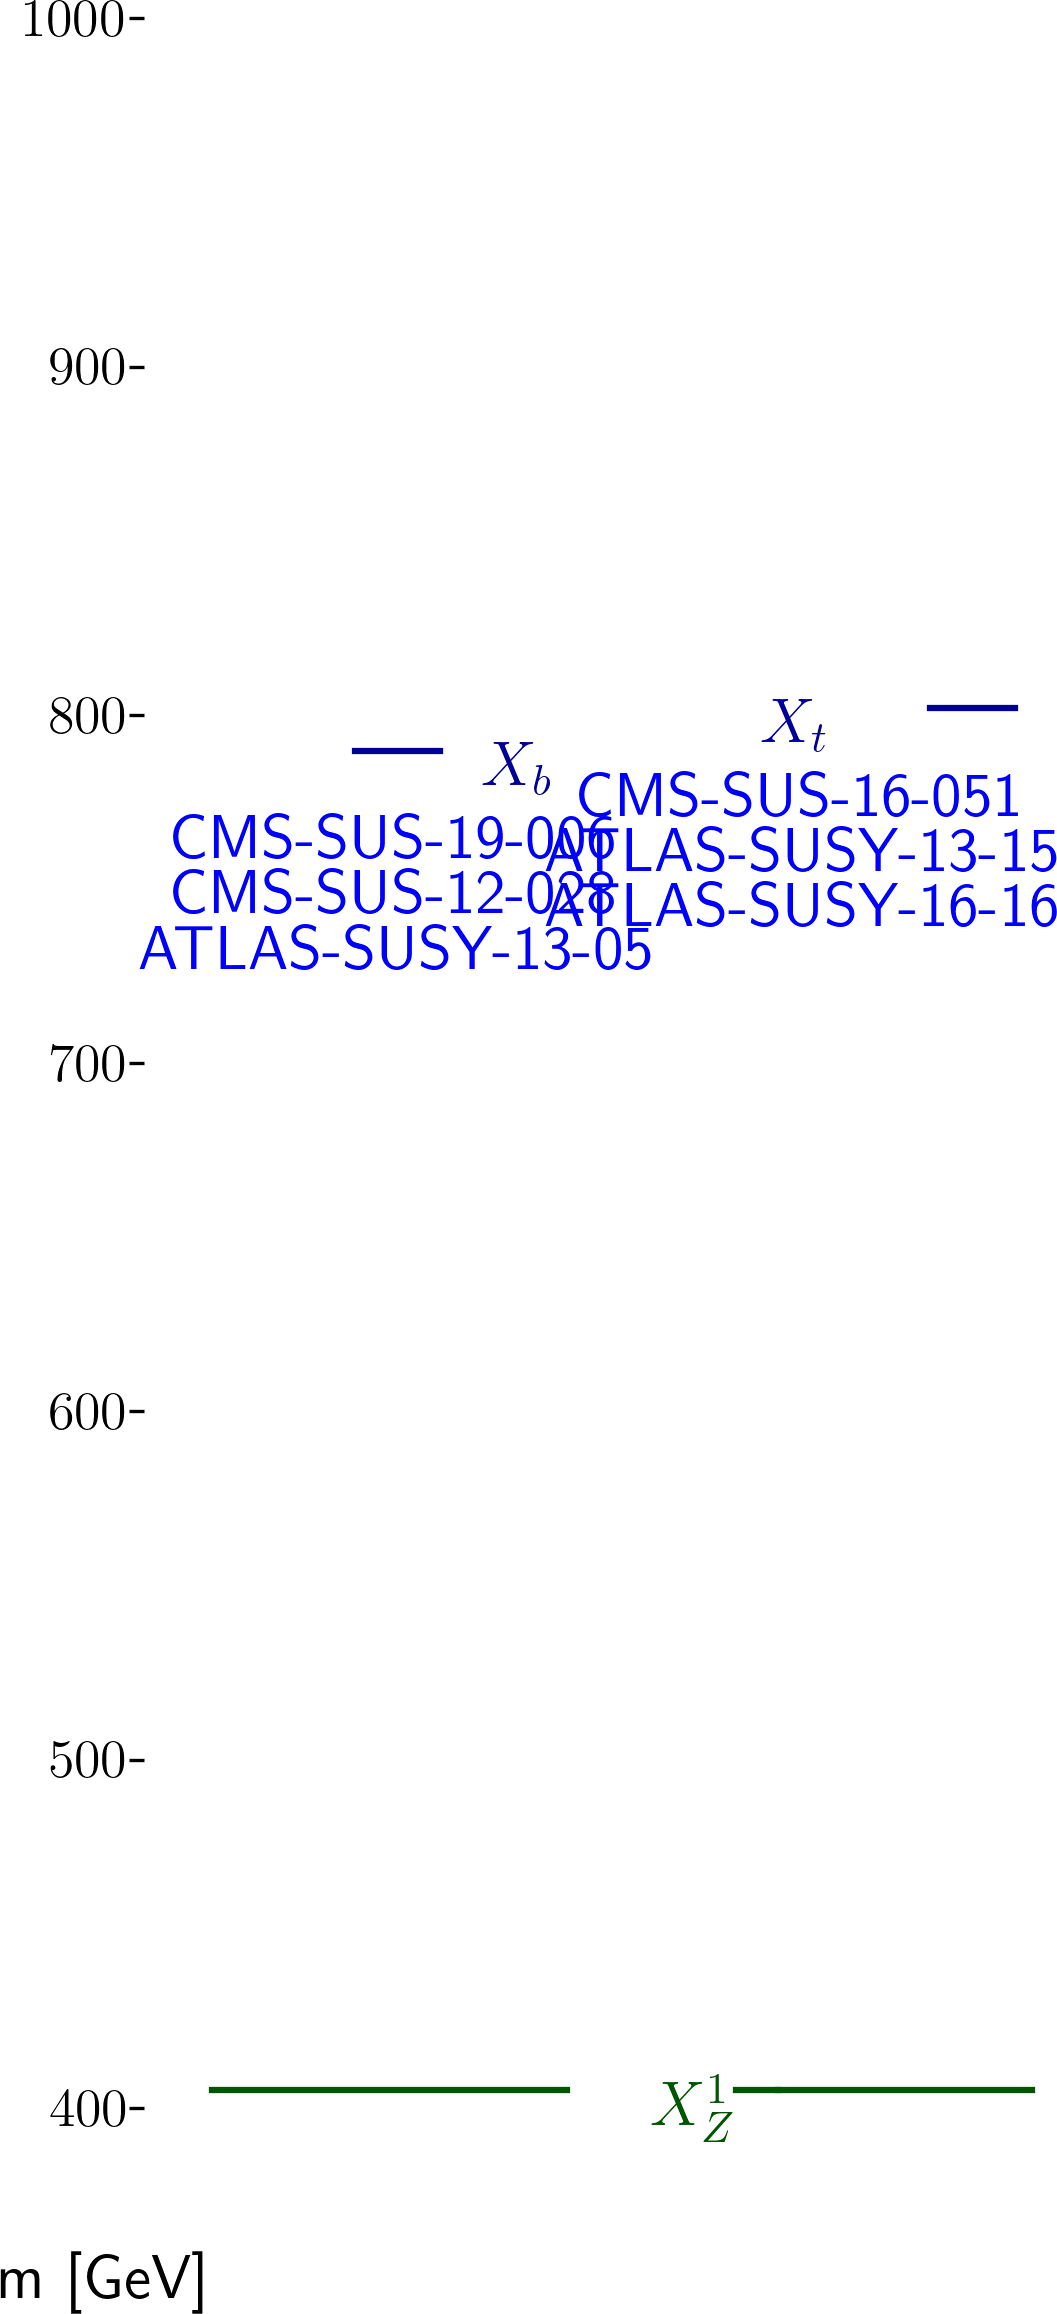
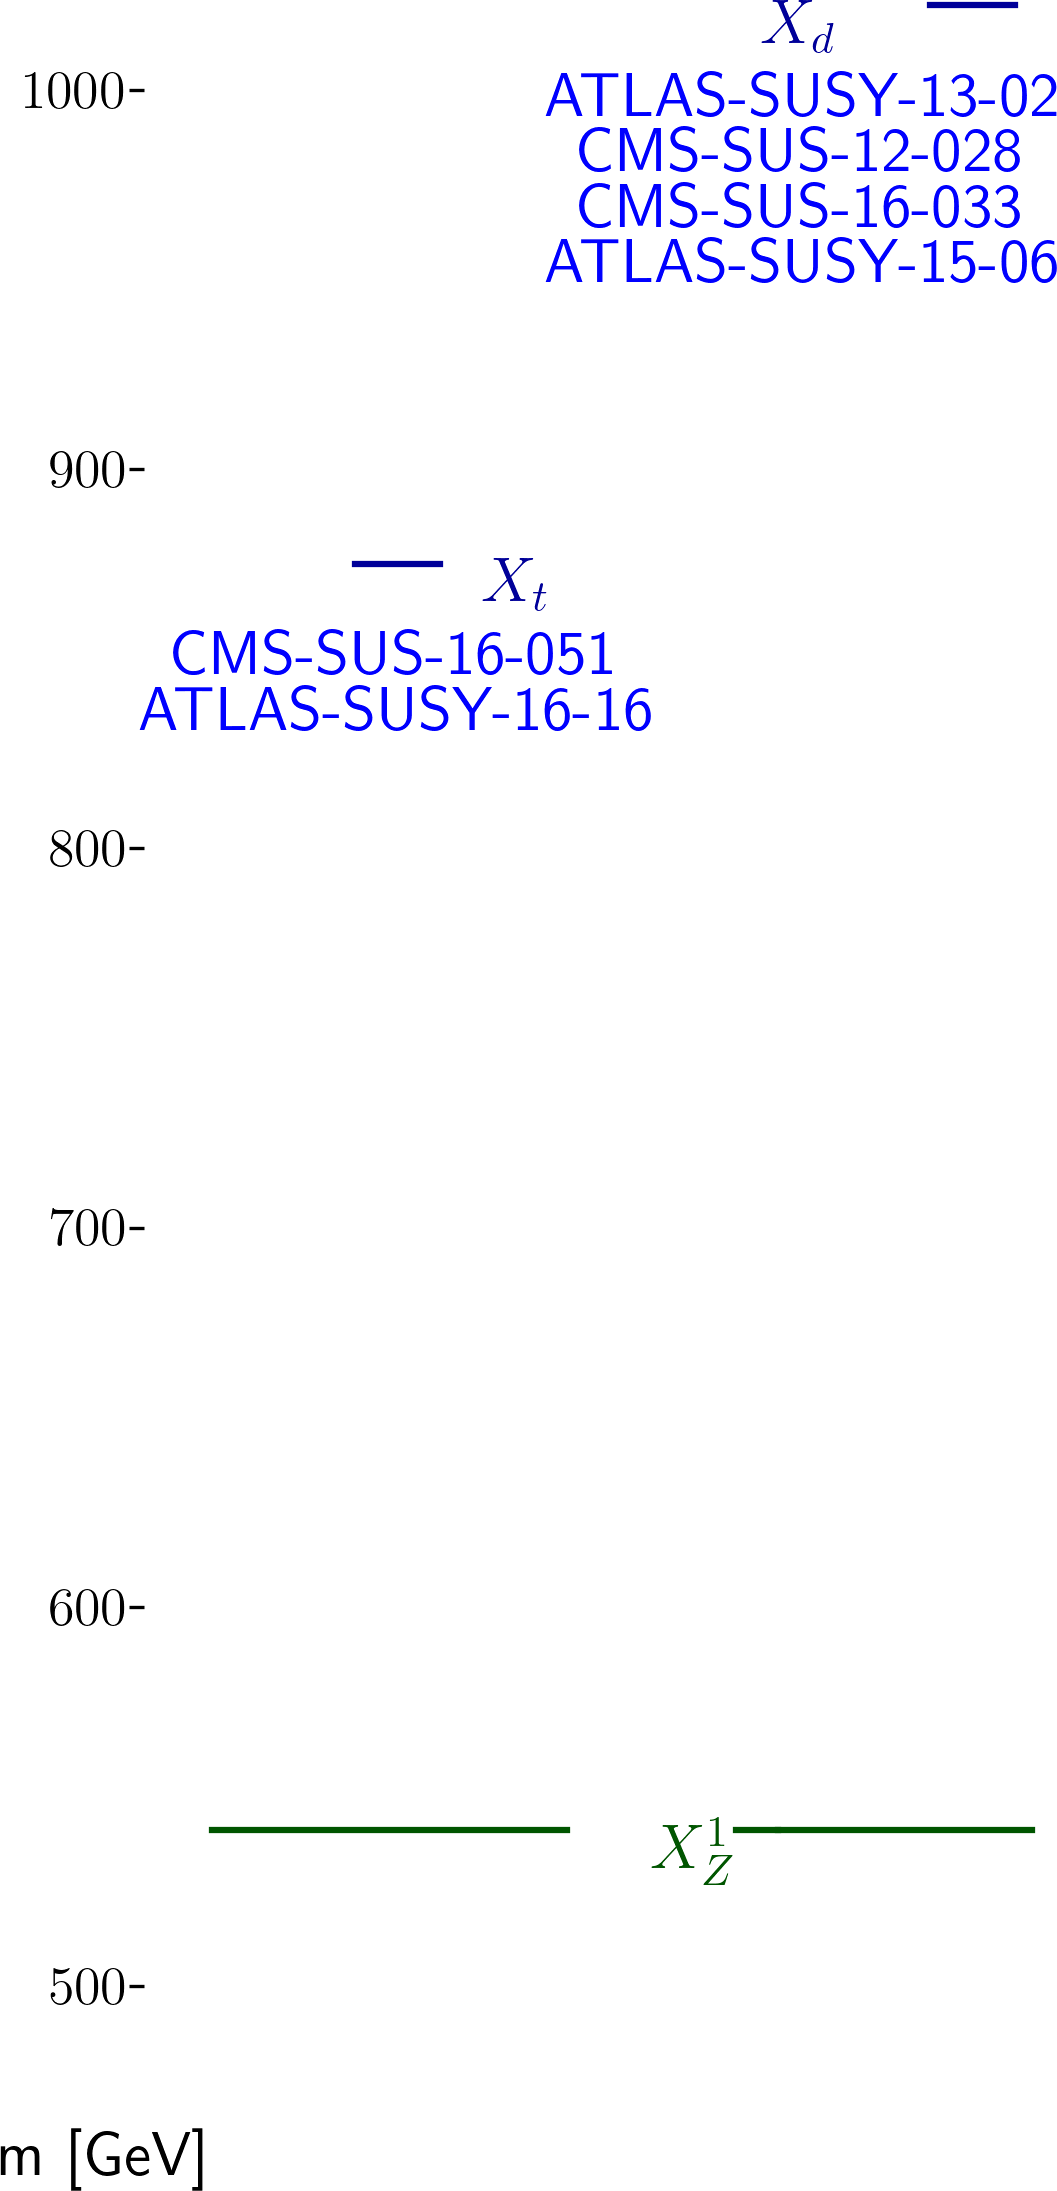
automated update by plotHiscore.py

diff --git a/protomodels/latest/index.html b/protomodels/latest/index.html
@@ -1,31 +1,31 @@
 <html>
 <body>
 <center>
-<table><td><h1>Current best protomodel: K=10.35</h1><td><img height=60px src=https://smodels.github.io/pics/banner.png></table>
+<table><td><h1>Current best protomodel: K=9.66</h1><td><img height=60px src=https://smodels.github.io/pics/banner.png></table>
 </center>
-<b><a href=./hiscore.slha>ProtoModel</a> <a href=./pmodel.py>(dict)</a> produced with <a href=https://smodels.github.io/docs/Validation124signal3>database v1.2.4signal3</a>, combination strategy <a href=./matrix_aggressive.png>aggressive</a> in walker 49 step 571.</b> K plots for: <a href=./M1000022.png?11488024>X<sub>Z</sub><sup>1</sup></a>, <a href=./M1000006.png?11488024>X<sub>t</sub></a>, <a href=./M1000005.png?11488024>X<sub>b</sub></a>. HPD plots for: <a href=./llhd1000006.png?11488024>X<sub>t</sub></a>, <a href=./llhd1000005.png?11488024>X<sub>b</sub></a>. SSM plots for: <a href=./ssm_-1000006_1000006.png?11488024>(x&#772;<sub>t</sub>,X<sub>t</sub>)</a><br>
+<b><a href=./hiscore.slha>ProtoModel</a> <a href=./pmodel.py>(dict)</a> produced with <a href=https://smodels.github.io/docs/Validation124signal4>database v1.2.4signal4</a>, combination strategy <a href=./matrix_aggressive.png>aggressive</a> in walker 10 step 918.</b> K plots for: <a href=./M1000022.png?11488427>X<sub>Z</sub><sup>1</sup></a>, <a href=./M1000001.png?11488427>X<sub>d</sub></a>, <a href=./M1000006.png?11488427>X<sub>t</sub></a>. HPD plots for: <a href=./llhd1000001.png?11488427>X<sub>d</sub></a>, <a href=./llhd1000006.png?11488427>X<sub>t</sub></a>. SSM plots for: <a href=./ssm_-1000006_1000006.png?11488427>(x&#772;<sub>t</sub>,X<sub>t</sub>)</a><br>
 <table width=80%>
 <tr><td>
-<br><b>34 predictions available. Highest r values are:</b><br><ul>
-<li><a href=http://cms-results.web.cern.ch/cms-results/public-results/publications/SUS-19-006/index.html>CMS-SUS-19-006</a>:T2tt r=1.30, r<sub>exp</sub>=1.57<br>
-<li><a href=http://cms-results.web.cern.ch/cms-results/public-results/publications/SUS-16-036/index.html>CMS-SUS-16-036</a>:T2bb r=1.28, r<sub>exp</sub>=0.62<br>
-<li><a href=http://cms-results.web.cern.ch/cms-results/public-results/publications/SUS-16-033/index.html>CMS-SUS-16-033</a>:T2bb r=1.01, r<sub>exp</sub>=0.55<br>
-<li><a href=https://atlas.web.cern.ch/Atlas/GROUPS/PHYSICS/PAPERS/SUSY-2016-16/>ATLAS-SUSY-2016-16</a>:T2tt r=0.73, r<sub>exp</sub>=1.04<br>
-<li><a href=http://cms-results.web.cern.ch/cms-results/public-results/publications/SUS-16-032/index.html>CMS-SUS-16-032</a>:T2bb r=0.64, r<sub>exp</sub>=N/A<br>
+<br><b>28 predictions available. Highest r values are:</b><br><ul>
+<li><a href=http://cms-results.web.cern.ch/cms-results/public-results/publications/SUS-19-006/index.html>CMS-SUS-19-006</a>:T2 r=1.30, r<sub>exp</sub>=1.27<br>
+<li><a href=http://cms-results.web.cern.ch/cms-results/public-results/publications/SUS-19-006/index.html>CMS-SUS-19-006</a>:T2tt r=1.12, r<sub>exp</sub>=0.65<br>
+<li><a href=http://cms-results.web.cern.ch/cms-results/public-results/publications/SUS-16-033/index.html>CMS-SUS-16-033</a>:T2 r=0.41, r<sub>exp</sub>=0.94<br>
+<li><a href=http://cms-results.web.cern.ch/cms-results/public-results/publications/SUS-16-036/index.html>CMS-SUS-16-036</a>:T2 r=0.40, r<sub>exp</sub>=0.90<br>
+<li><a href=https://atlas.web.cern.ch/Atlas/GROUPS/PHYSICS/PAPERS/SUSY-2016-07/>ATLAS-SUSY-2016-07</a>:T2 r=0.40, r<sub>exp</sub>=0.64<br>
 </ul>
 <td><br><b>K values without analyses: (contribution)</b><br>
 <ul>
-<li> <a href=https://atlas.web.cern.ch/Atlas/GROUPS/PHYSICS/PAPERS/SUSY-2016-16/>ATLAS-SUSY-2016-16</a>: -0.15 (14%)
-<li> <a href=https://atlas.web.cern.ch/Atlas/GROUPS/PHYSICS/PAPERS/SUSY-2013-05/>ATLAS-SUSY-2013-05</a>: -1.95 (17%)
-<li> <a href=https://twiki.cern.ch/twiki/bin/view/CMSPublic/PhysicsResultsSUS12028>CMS-SUS-12-028</a>: -1.95 (17%)
-<li> <a href=http://cms-results.web.cern.ch/cms-results/public-results/publications/SUS-19-006/index.html>CMS-SUS-19-006</a>: -1.95 (17%)
-<li> <a href=http://cms-results.web.cern.ch/cms-results/public-results/publications/SUS-16-051/index.html>CMS-SUS-16-051</a>: -1.95 (17%)
-<li> <a href=https://atlas.web.cern.ch/Atlas/GROUPS/PHYSICS/PAPERS/SUSY-2013-15/>ATLAS-SUSY-2013-15</a>: -4.05 (19%)
-<td><img width=600px src=./texdoc.png?1604488024>
-<br><font size=-1>Last updated: Wed Nov  4 12:07:04 2020</font>
+<li> <a href=https://twiki.cern.ch/twiki/bin/view/CMSPublic/PhysicsResultsSUS12028>CMS-SUS-12-028</a>: 0.47 (16%)
+<li> <a href=http://cms-results.web.cern.ch/cms-results/public-results/publications/SUS-16-051/index.html>CMS-SUS-16-051</a>: 0.47 (16%)
+<li> <a href=http://cms-results.web.cern.ch/cms-results/public-results/publications/SUS-16-033/index.html>CMS-SUS-16-033</a>: 0.47 (16%)
+<li> <a href=http://atlas.web.cern.ch/Atlas/GROUPS/PHYSICS/PAPERS/SUSY-2015-06/>ATLAS-SUSY-2015-06</a>: 0.33 (16%)
+<li> <a href=https://atlas.web.cern.ch/Atlas/GROUPS/PHYSICS/PAPERS/SUSY-2013-02/>ATLAS-SUSY-2013-02</a>: 0.14 (16%)
+<li> <a href=https://atlas.web.cern.ch/Atlas/GROUPS/PHYSICS/PAPERS/SUSY-2016-16/>ATLAS-SUSY-2016-16</a>: -3.04 (21%)
+<td><img width=600px src=./texdoc.png?1604488427>
+<br><font size=-1>Last updated: Wed Nov  4 12:13:47 2020</font>
 </table><table style="width:80%">
-<td width=45%><img height=580px src=./ruler.png?1604488024><td width=55%><img height=380px src=./decays.png?1604488024>
-<font size=-3><iframe type="text/html" height="220px" width="100%s" frameborder="0" src="./rawnumbers.html?1604488024"></iframe></font>
+<td width=45%><img height=580px src=./ruler.png?1604488427><td width=55%><img height=380px src=./decays.png?1604488427>
+<font size=-3><iframe type="text/html" height="220px" width="100%s" frameborder="0" src="./rawnumbers.html?1604488427"></iframe></font>
 </table>
 </body>
 </html>

diff --git a/protomodels/latest/rawnumbers.html b/protomodels/latest/rawnumbers.html
@@ -1,10 +1,10 @@
 <table>
 <tr><th>Analysis Name</th><th>Type</th><th>Dataset</th><th>Topos</th><th>Observed</th><th>Expected</th><th>Approx &sigma;</th><th>Particles</th><th>Signal</th>
 </tr>
-<tr><td><a href=https://atlas.web.cern.ch/Atlas/GROUPS/PHYSICS/PAPERS/SUSY-2013-05/>ATLAS-SUSY-2013-05</a></td><td>em</td> <td>SRA-mCT200</td><td>T2bb</td><td>39</td><td>39 +/- 6</td><td style="text-align:right">0.0 &sigma;</td><td style="text-align:right">X<sub>b</sub></td><td style="text-align:right">-</td></tr>
-<tr><td><a href=https://atlas.web.cern.ch/Atlas/GROUPS/PHYSICS/PAPERS/SUSY-2013-15/>ATLAS-SUSY-2013-15</a></td><td>em</td> <td>tNboost</td><td>T2tt</td><td>8</td><td>3.3 +/- 0.7</td><td style="text-align:right">2.4 &sigma;</td><td style="text-align:right">X<sub>t</sub></td><td style="text-align:right">0</td></tr>
-<tr><td><a href=https://atlas.web.cern.ch/Atlas/GROUPS/PHYSICS/PAPERS/SUSY-2016-16/>ATLAS-SUSY-2016-16</a></td><td>em</td> <td>tN_med</td><td>T2tt</td><td>45</td><td>36.3 +/- 6.6</td><td style="text-align:right">1.0 &sigma;</td><td style="text-align:right">X<sub>t</sub></td><td style="text-align:right">8</td></tr>
-<tr><td><a href=https://twiki.cern.ch/twiki/bin/view/CMSPublic/PhysicsResultsSUS12028>CMS-SUS-12-028</a></td><td>ul</td> <td>-</td><td>T2bb</td><td> 8.2 fb </td><td> 13.8 fb</td><td style="text-align:right">-0.8 &sigma;</td><td style="text-align:right">X<sub>b</sub></td><td style="text-align:right">-</td></tr>
-<tr><td><a href=http://cms-results.web.cern.ch/cms-results/public-results/publications/SUS-16-051/index.html>CMS-SUS-16-051</a></td><td>ul</td> <td>-</td><td>T2tt</td><td> 55.1 fb </td><td> 24.5 fb</td><td style="text-align:right">2.5 &sigma;</td><td style="text-align:right">X<sub>t</sub></td><td style="text-align:right">30.62 fb</td></tr>
-<tr><td><a href=http://cms-results.web.cern.ch/cms-results/public-results/publications/SUS-19-006/index.html>CMS-SUS-19-006</a></td><td>ul</td> <td>-</td><td>T2bb</td><td> 31.9 fb </td><td> 14.6 fb</td><td style="text-align:right">2.3 &sigma;</td><td style="text-align:right">X<sub>b</sub></td><td style="text-align:right">-</td></tr>
+<tr><td><a href=https://atlas.web.cern.ch/Atlas/GROUPS/PHYSICS/PAPERS/SUSY-2013-02/>ATLAS-SUSY-2013-02</a></td><td>em</td> <td>SR6jtp</td><td>T2</td><td>10</td><td>4.9 +/- 1.6</td><td style="text-align:right">1.9 &sigma;</td><td style="text-align:right">X<sub>d</sub></td><td style="text-align:right">0</td></tr>
+<tr><td><a href=http://atlas.web.cern.ch/Atlas/GROUPS/PHYSICS/PAPERS/SUSY-2015-06/>ATLAS-SUSY-2015-06</a></td><td>em</td> <td>SR4jt</td><td>T2</td><td>5</td><td>4.1 +/- 1.1</td><td style="text-align:right">0.4 &sigma;</td><td style="text-align:right">X<sub>d</sub></td><td style="text-align:right">0</td></tr>
+<tr><td><a href=https://atlas.web.cern.ch/Atlas/GROUPS/PHYSICS/PAPERS/SUSY-2016-16/>ATLAS-SUSY-2016-16</a></td><td>em</td> <td>tN_med</td><td>T2tt</td><td>55</td><td>36.3 +/- 6.6</td><td style="text-align:right">2.1 &sigma;</td><td style="text-align:right">X<sub>t</sub></td><td style="text-align:right">10</td></tr>
+<tr><td><a href=https://twiki.cern.ch/twiki/bin/view/CMSPublic/PhysicsResultsSUS12028>CMS-SUS-12-028</a></td><td>ul</td> <td>-</td><td>T2</td><td> 22.4 fb </td><td> 20.2 fb</td><td style="text-align:right">0.2 &sigma;</td><td style="text-align:right">X<sub>d</sub></td><td style="text-align:right">2.22 fb</td></tr>
+<tr><td><a href=http://cms-results.web.cern.ch/cms-results/public-results/publications/SUS-16-033/index.html>CMS-SUS-16-033</a></td><td>ul</td> <td>-</td><td>T2</td><td> 49.5 fb </td><td> 21.7 fb</td><td style="text-align:right">2.5 &sigma;</td><td style="text-align:right">X<sub>d</sub></td><td style="text-align:right">27.79 fb</td></tr>
+<tr><td><a href=http://cms-results.web.cern.ch/cms-results/public-results/publications/SUS-16-051/index.html>CMS-SUS-16-051</a></td><td>ul</td> <td>-</td><td>T2tt</td><td> 63.7 fb </td><td> 33.1 fb</td><td style="text-align:right">1.8 &sigma;</td><td style="text-align:right">X<sub>t</sub></td><td style="text-align:right">30.62 fb</td></tr>
 </table>

diff --git a/protomodels/latest/pmodel.py b/protomodels/latest/pmodel.py
@@ -1,1 +1,1 @@
-{'masses': {1000022: 395.049, 1000005: 779.711, 1000006: 791.9}, 'ssmultipliers': {(1000022, 1000022): 0.001, (1000005, 1000005): 0.314, (-1000005, 1000005): 0.314, (-1000005, -1000005): 1.105, (1000005, 1000022): 0.51, (-1000005, 1000022): 14.534, (1000006, 1000006): 0.985, (-1000006, 1000006): 0.985, (-1000006, -1000006): 0.985, (1000006, 1000022): 0.985, (-1000006, 1000022): 0.985, (1000005, 1000006): 0.985, (-1000006, 1000005): 0.985, (-1000005, 1000006): 0.985, (-1000006, -1000005): 0.985}, 'decays': {1000022: {}, 1000005: {(1000022, 5): 1.0}, 1000006: {(1000022, 6): 1.0}}, 'timestamp': 'Wed Nov  4 12:06:27 2020', 'Z': 3.794, 'K': 10.348, 'walkerid': 49, 'step': 571, 'codever': '1.0', 'dbver': '1.2.4signal3'}
+{'masses': {1000022: 531.14, 1000001: 1012.299, 1000006: 865.082}, 'ssmultipliers': {(1000022, 1000022): 7.862, (1000001, 1000001): 3.508, (-1000001, 1000001): 3.508, (-1000001, -1000001): 3.508, (1000001, 1000022): 3.731, (-1000001, 1000022): 3.731, (1000006, 1000006): 0.976, (-1000006, 1000006): 0.976, (-1000006, -1000006): 0.976, (1000006, 1000022): 0.976, (-1000006, 1000022): 0.976, (1000001, 1000006): 0.976, (-1000006, 1000001): 0.976, (-1000001, 1000006): 0.976, (-1000006, -1000001): 0.976}, 'decays': {1000022: {}, 1000001: {(1000022, 1): 1.0}, 1000006: {(1000022, 6): 1.0}}, 'timestamp': 'Wed Nov  4 12:13:06 2020', 'Z': 3.669, 'K': 9.662, 'walkerid': 10, 'step': 918, 'codever': '1.0', 'dbver': '1.2.4signal4'}
